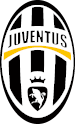
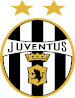
removi e adicionei escudo

diff --git a/jogos.html b/jogos.html
@@ -283,6 +283,69 @@
             <h1>Jogos Da Portuguesa</h1>
 
             <aside id="conteiner01">
+
+                <h2>Volta - Sábado 26/08/2023</h2>
+
+                <br>
+
+                <h4>Titular</h4>
+
+                <div id="casa">
+                    <img src="imagens/escudos/portuguesa.png" alt="escudo time local">
+                </div>
+                <div id="placar01">
+                    <img src="imagens/placar/placar01.png" alt="placar01">
+                </div>
+                <div id="x">
+                    <img src="imagens/placar/x.png" alt="x">
+                </div>
+                <div id="placar02">
+                    <img src="imagens/placar/placar05.png" alt="placar01">
+                </div>
+                <div id="fora">
+                    <img src="imagens/escudos/juventos.png" alt="escudo visitante">
+                </div>
+                <div id="nome01">
+                    <p>Portuguesa do Alegre</p>
+                </div>
+                <div id="nome02">
+                    <p>Cruzeiro da Aracuã</p>
+                </div>
+                <div id="marcadores02">
+                    <p>Ricardo</p>
+                </div>
+            </aside>
+            <aside id="conteiner02">
+
+                <br>
+
+                <h4>Aspirante</h4>
+
+                <div id="casa">
+                    <img src="imagens/escudos/portuguesa.png" alt="escudo time local">
+                </div>
+                <div id="placar01">
+                    <img src="imagens/placar/placar00.png" alt="placar01">
+                </div>
+                <div id="x">
+                    <img src="imagens/placar/x.png" alt="x">
+                </div>
+                <div id="placar02">
+                    <img src="imagens/placar/placar04.png" alt="placar02">
+                </div>
+                <div id="fora">
+                    <img src="imagens/escudos/cruzeiro.png" alt="escudo visitante">
+                </div>
+                <div id="nome01">
+                    <p>Portuguesa do Alegre</p>
+                </div>
+                <div id="nome02">
+                    <p>Cruzeiro da Aracuã</p>
+                </div>
+                <div id="marcadores01">
+                </div>
+            </aside>
+            <aside id="conteiner01">
                 
                 <h2>Ida - Sábado 02/09/2023</h2>
 
